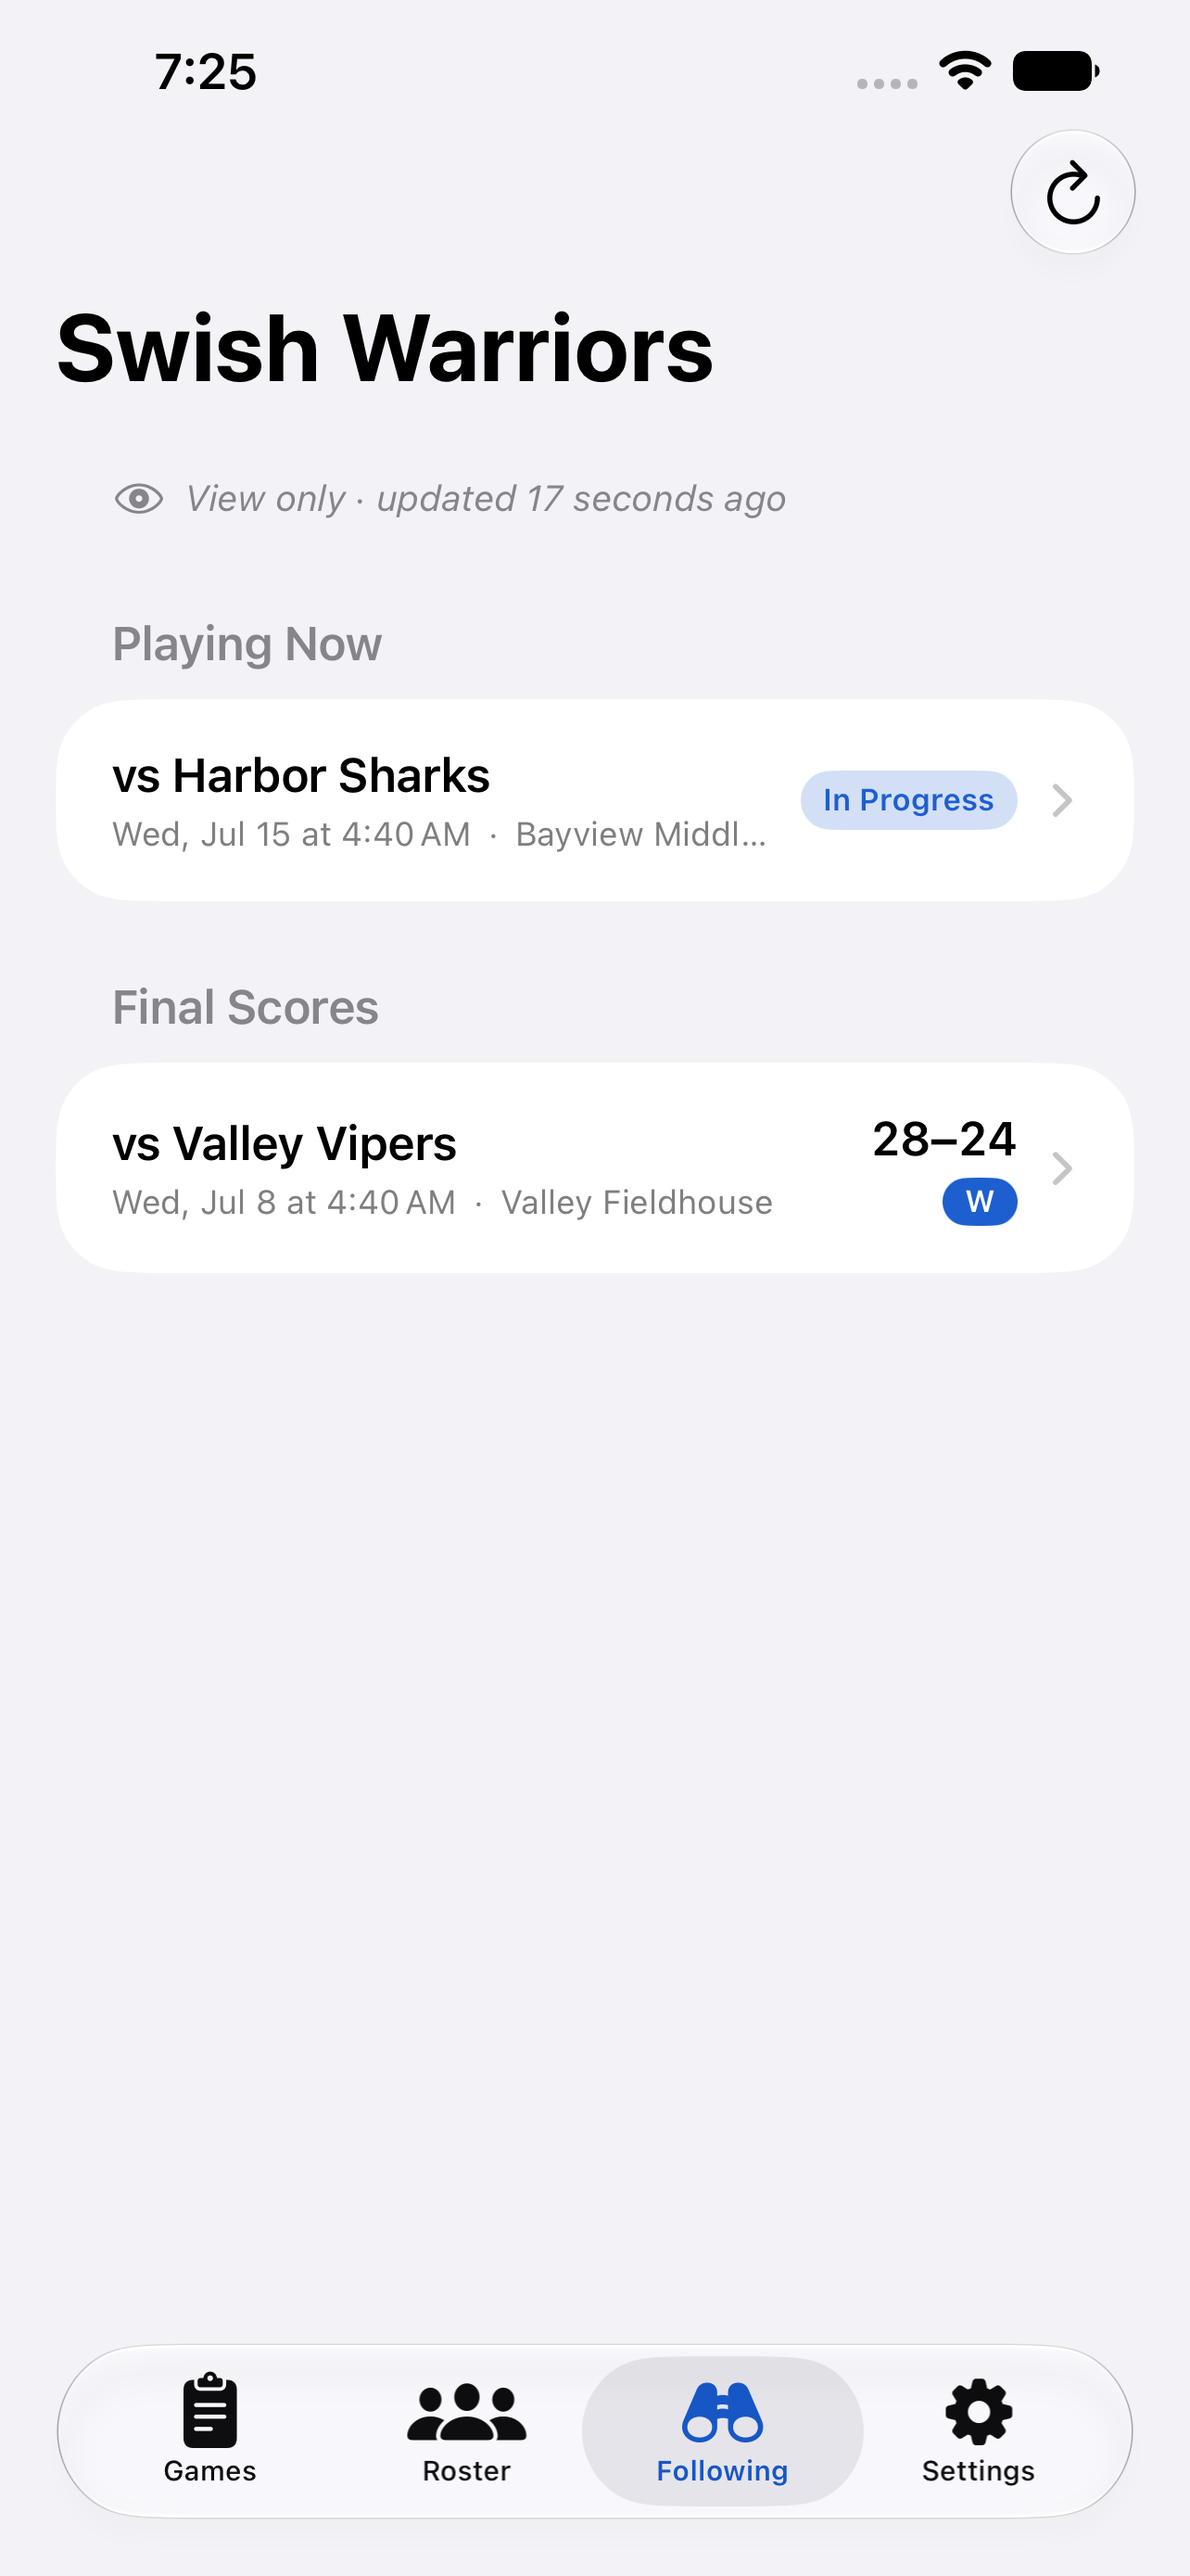
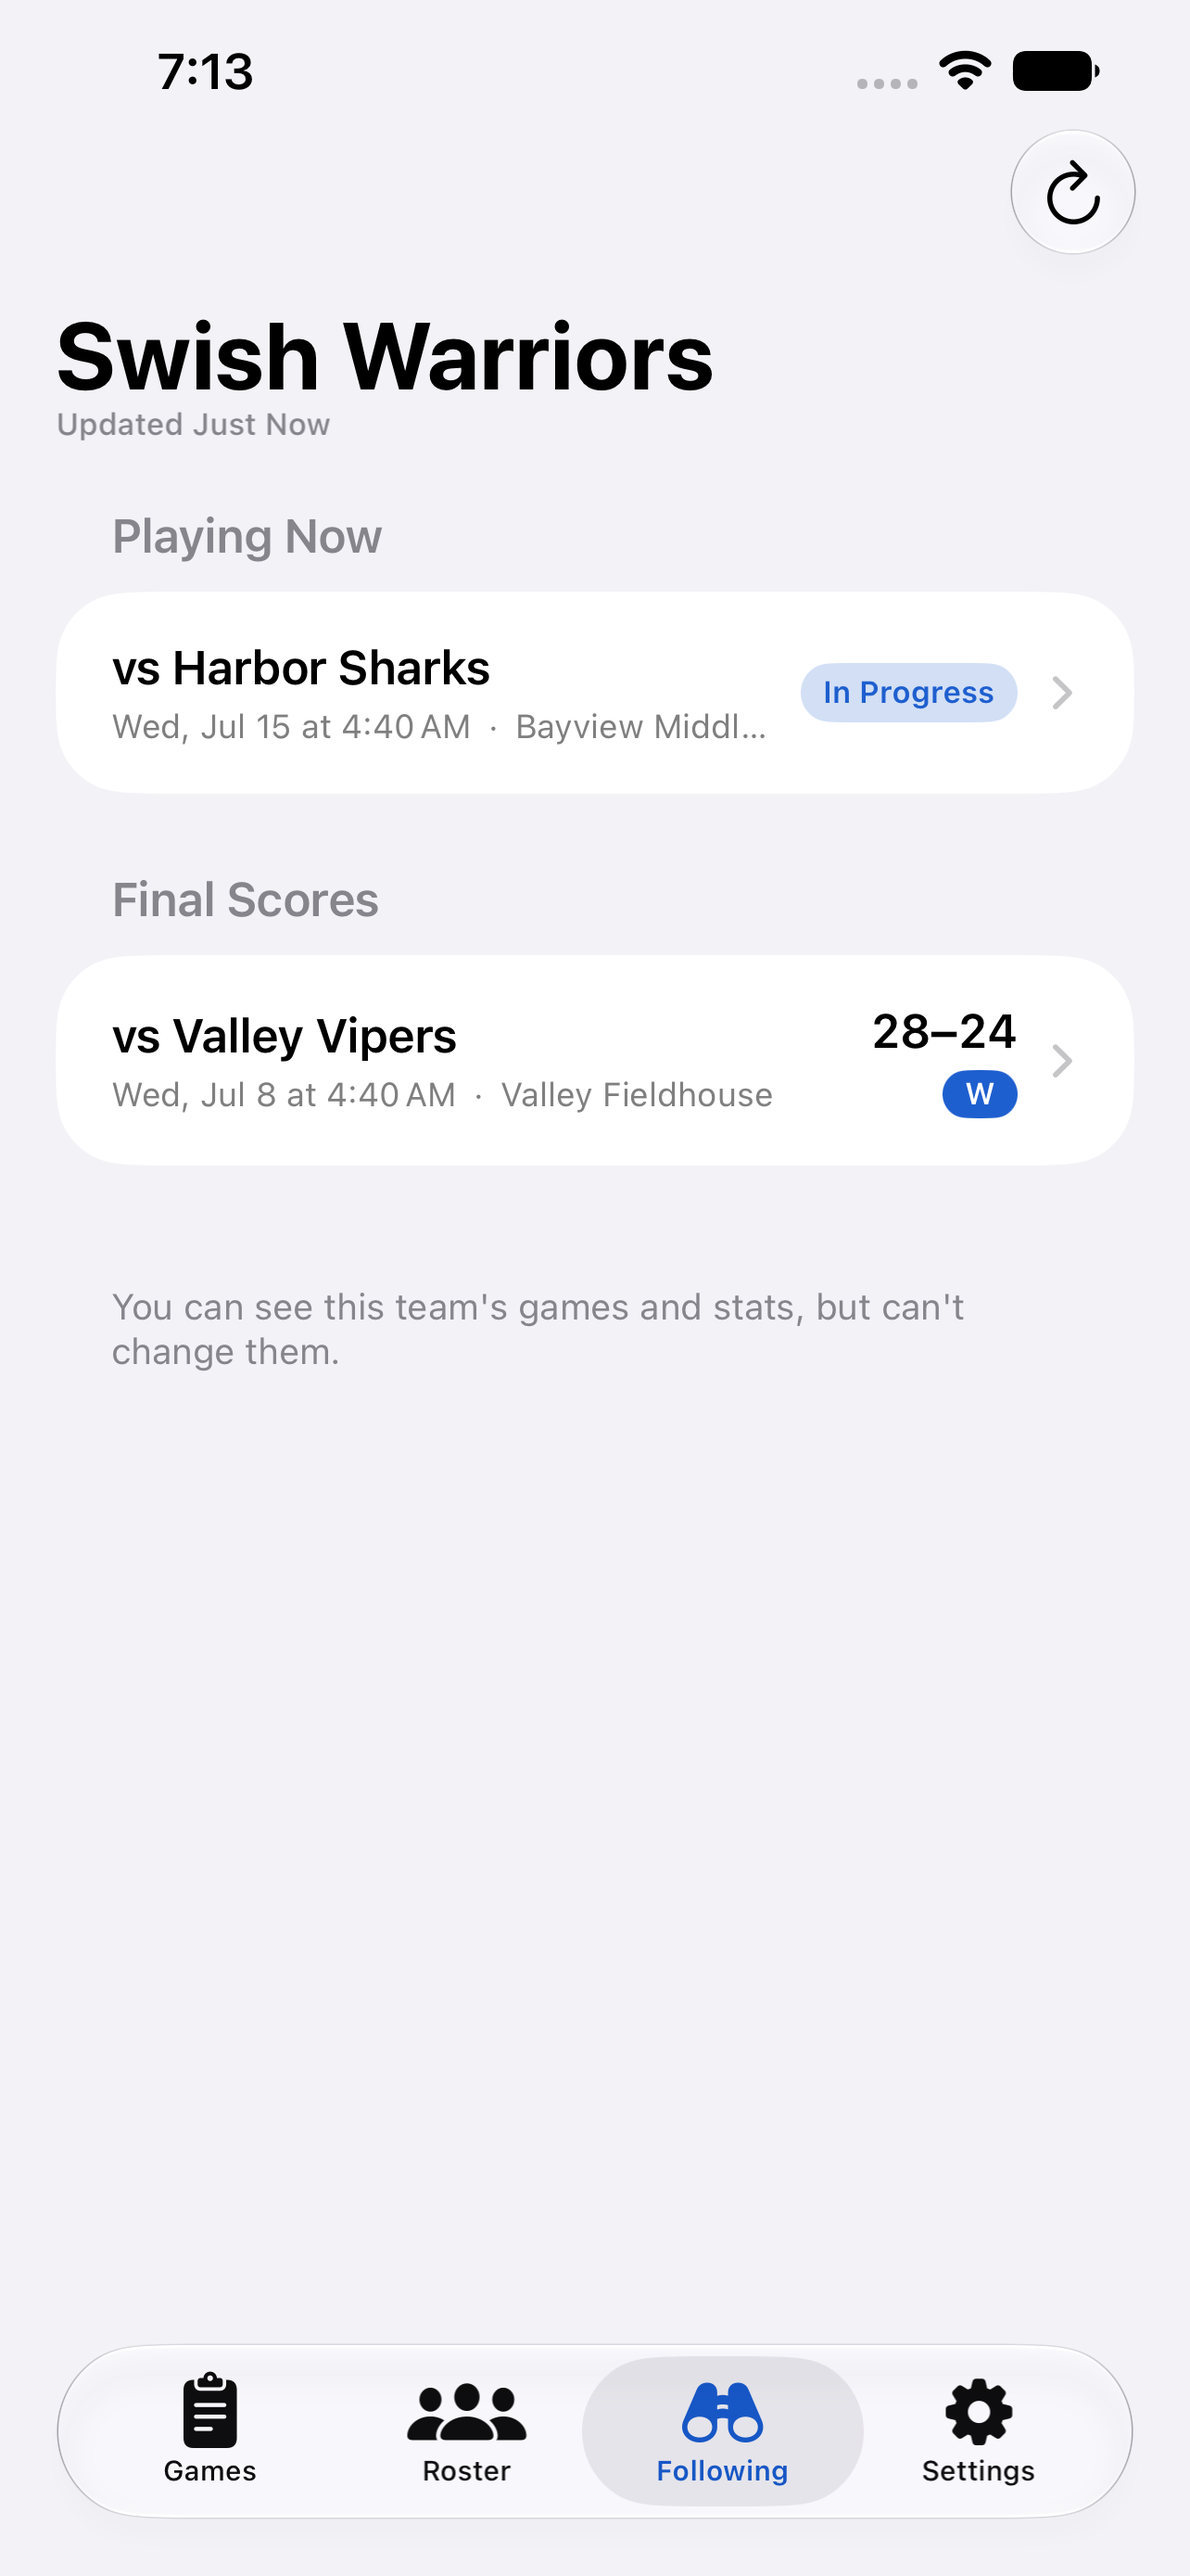
Move a followed team's sync status into the navigation bar (#94)
The "View only · updated 17 seconds ago" row sat above the scores in a bespoke
italic style, spending a full content row on something that isn't content — and
ticking every second, which reads as anxious precision rather than information.

Freshness now sits in the navigation subtitle, system-styled and always visible,
directly under the team name. That's where iOS puts it: Mail and Podcasts both
show last-updated as chrome, and HIG's feedback guidance names Mail's treatment
specifically. It's rounded to the minute, since the sync isn't accurate to the
second anyway, and reads "Updated Just Now" under a minute.

On a game screen it appears only while the game is in progress. Watching live,
how far behind the score might be is the most useful thing on screen; on a final
it can't change and would be noise.

Read-only moves to a footer below the games, mirroring the wording the owner
already sees in FollowersView. No persistent badge: Apple's own shared Notes and
albums convey read-only by simply having no edit affordances, which this screen
already does — the tab name, its binoculars icon, and the absence of any editing
carry it. The eye icon is gone too; in Apple's vocabulary that symbol is a
visibility toggle, so a static one invites a tap that does nothing.

Claude-Session: https://claude.ai/code/session_01XKw3Fyr61m8RtwfRppQofX

diff --git a/CourtsideHoopStats/Views/FollowingView.swift b/CourtsideHoopStats/Views/FollowingView.swift
@@ -32,6 +32,10 @@ struct FollowingView: View {
                 }
             }
             .navigationTitle(selected?.team.name ?? "Following")
+            // Freshness belongs in chrome, not content: it's always visible,
+            // system-styled, and costs no room above the scores. Mail and
+            // Podcasts show last-updated the same way.
+            .navigationSubtitle(selected.map { $0.updatedAt.updatedLabel } ?? "")
             .toolbar {
                 // Only a real choice when there's more than one team to pick.
                 if store.followedTeams.count > 1 {
@@ -82,18 +86,6 @@ struct FollowingView: View {
 
     private func gameList(for followed: FollowedTeam) -> some View {
         List {
-            // Status sits at the top, where it's read before the scores rather
-            // than discovered under them. Its own section, but with the
-            // grouping chrome stripped out — a one-line note shouldn't get a
-            // full section's worth of padding above and below it.
-            Section {
-                statusLine(for: followed)
-                    .listRowBackground(Color.clear)
-                    .listRowSeparator(.hidden)
-                    .listRowInsets(EdgeInsets(top: 0, leading: 20, bottom: 0, trailing: 20))
-            }
-            .listSectionSpacing(.compact)
-
             // Same section titles as the Games tab.
             ForEach(gameGroups(for: followed), id: \.title) { group in
                 Section(group.title) {
@@ -116,19 +108,17 @@ struct FollowingView: View {
                         .foregroundStyle(.secondary)
                 }
             }
+
+            // Below the fold, where iOS puts explanatory non-actionable text —
+            // and mirroring the wording the owner sees in FollowersView. No
+            // persistent badge: Apple's own shared Notes and albums convey
+            // read-only by simply having no edit affordances, which this
+            // screen already does.
+            Section {} footer: {
+                Text("You can see this team's games and stats, but can't change them.")
+            }
         }
         .refreshable { await refresh() }
-    }
-
-    /// Honest about staleness rather than implying "live", and italic so it
-    /// reads as a note about the data rather than part of it.
-    private func statusLine(for followed: FollowedTeam) -> some View {
-        HStack(spacing: 6) {
-            Image(systemName: "eye")
-            Text("View only · updated \(followed.updatedAt, format: .relative(presentation: .named))")
-        }
-        .font(.footnote.italic())
-        .foregroundStyle(.secondary)
     }
 
     /// A team's games split exactly the way the Games tab splits them.
@@ -223,6 +213,11 @@ private struct FollowedGameView: View {
             }
         }
         .navigationTitle(game.map { $0.opponent.isEmpty ? "Game" : "vs. \($0.opponent)" } ?? "Game")
+        // Only while it's live: watching a game in progress, how far behind the
+        // score might be is the most useful thing on screen. A final can't go
+        // stale, so there the same line would be noise.
+        .navigationSubtitle(game?.lifecycle == .inProgress
+                            ? (followed?.updatedAt.updatedLabel ?? "") : "")
         .navigationBarTitleDisplayMode(.inline)
         .scoreToast($flash)
         .refreshable { await refresh() }

diff --git a/CourtsideHoopStatsTests/GameDateFormatTests.swift b/CourtsideHoopStatsTests/GameDateFormatTests.swift
@@ -82,3 +82,26 @@ struct GameDateCompactTests {
             .contains(sample.formatted(date: .omitted, time: .shortened)))
     }
 }
+
+/// The "last updated" wording shown on a followed team (#57).
+struct UpdatedLabelTests {
+
+    @Test func withinAMinuteReadsJustNow() {
+        #expect(Date().updatedLabel == "Updated Just Now")
+        #expect(Date().addingTimeInterval(-30).updatedLabel == "Updated Just Now")
+    }
+
+    /// Rounded to the minute: the sync isn't accurate to the second, and a
+    /// string that ticks every second reads as anxious precision.
+    @Test func pastAMinuteReadsRelative() {
+        let label = Date().addingTimeInterval(-300).updatedLabel
+        #expect(label.hasPrefix("Updated "))
+        #expect(label != "Updated Just Now")
+        #expect(!label.contains("second"))
+    }
+
+    @Test func theBoundaryIsAMinute() {
+        #expect(Date().addingTimeInterval(-59).updatedLabel == "Updated Just Now")
+        #expect(Date().addingTimeInterval(-61).updatedLabel != "Updated Just Now")
+    }
+}

diff --git a/CourtsideHoopStats/Helpers/DesignSystem.swift b/CourtsideHoopStats/Helpers/DesignSystem.swift
@@ -253,3 +253,20 @@ extension Date {
         return "\(day) at \(formatted(date: .omitted, time: .shortened))"
     }
 }
+
+// MARK: - Sync freshness (#57)
+
+extension Date {
+    /// "Updated Just Now" / "Updated 5 minutes ago", for the navigation
+    /// subtitle on a followed team.
+    ///
+    /// Rounded to the minute rather than exact: the underlying sync isn't
+    /// accurate to the second anyway, and a string that ticks every second
+    /// reads as anxious precision rather than information. "Just Now" matches
+    /// Mail's wording for the same idea.
+    var updatedLabel: String {
+        let elapsed = Date().timeIntervalSince(self)
+        guard elapsed >= 60 else { return "Updated Just Now" }
+        return "Updated \(formatted(.relative(presentation: .named)))"
+    }
+}
